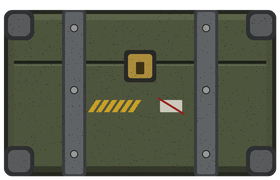
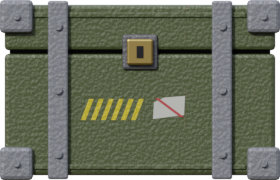
Added blender models and renderings of bomb crate and stash case

diff --git a/leapfrog-game/models/sprites/bomb_crate.py b/leapfrog-game/models/sprites/bomb_crate.py
@@ -1,0 +1,137 @@
+"""
+bomb_crate - the explosive crate: a nailed wooden crate with crossed braces
+and a yellow warning sign bolted to it, showing a blast.
+
+Bodies in data/landing_scene_state2.xml and deep_space_scene.xml: bombBody and
+magenticMineBody, 20 x 20. Front view, ortho rig, 20 px/unit, framed exactly to
+the body, so x and z -10 .. 10. It replaces a downloaded picture: nothing here
+comes from an image, the wood and paint are procedural. The texture is already
+listed in res.xml (images); a render replaces the file and keeps the entry.
+
+Run from leapfrog-game\\models\\sprites:
+    blender -b --factory-startup -P bomb_crate.py
+    blender -b --factory-startup -P bomb_crate.py -- --samples 16 --suffix _test
+"""
+
+import math
+import os
+import sys
+
+sys.path.insert(0, os.path.dirname(os.path.abspath(__file__)))
+
+import bmesh                      # noqa: E402
+import sprite_kit as sk           # noqa: E402
+
+
+def options(p):
+    p.add_argument("--suffix", default="", help="added to the texture name (e.g. _test: not registered)")
+    p.add_argument("--sign", type=float, default=6.5, help="the sign's half diagonal")
+
+
+args = sk.parse_args(options)
+kit = sk.Kit(args, rig="ortho", res="res.xml")
+
+S = 10.0            # half the crate's side
+RAIL = 2.9          # width of the frame's planks
+OPENING = S - RAIL  # half the opening inside the frame
+
+wood = kit.material("wood_crate")
+steel = kit.material("strap_steel")
+yellow = kit.material("sign_yellow")
+black = kit.material("sign_black")
+
+
+def plank(name, center, length, width, depth, angle=0.0, bevel_width=0.07):
+    """A plank of its own, grain along its length; angle turns it, seen from the front."""
+    return sk.box_object(name, center, (length, depth, width), wood,
+                         rotation=(0.0, math.radians(angle), 0.0), bevel_width=bevel_width)
+
+
+def nail(name, x, z, y, radius=0.17):
+    bm = bmesh.new()
+    sk.strut(bm, (x, y + 0.12, z), (x, y, z), radius, segments=12)
+    return sk.mesh_object(name, bm, steel)
+
+
+# ---------------------------------------------------------------------------
+# Boards behind everything, a dark inside showing through the gaps
+# ---------------------------------------------------------------------------
+sk.box_object("inside", (0, 1.6, 0), (2 * OPENING + 1, 0.4, 2 * OPENING + 1), kit.material("void"))
+
+BOARDS = 5
+pitch = 2 * OPENING / BOARDS
+for i in range(BOARDS):
+    x = -OPENING + pitch * (i + 0.5)
+    plank("board_%d" % i, (x, 1.0, 0), 2 * OPENING + 1.0, pitch - 0.07, 0.8, angle=90, bevel_width=0.04)
+
+# ---------------------------------------------------------------------------
+# Crossed braces, one lapped over the other, cut off by the frame in front
+# ---------------------------------------------------------------------------
+brace_length = 2 * OPENING * math.sqrt(2) - 0.2
+plank("brace_0", (0, 0.45, 0), brace_length, 2.4, 0.4, angle=45)
+plank("brace_1", (0, 0.05, 0), brace_length, 2.4, 0.4, angle=-45)
+
+# ---------------------------------------------------------------------------
+# The frame: rails across, stiles between them, a nail row at each joint
+# ---------------------------------------------------------------------------
+for i, sz in enumerate((-1, 1)):
+    plank("rail_%d" % i, (0, -0.2, sz * (S - RAIL / 2)), 2 * S, RAIL, 0.8)
+for i, sx in enumerate((-1, 1)):
+    plank("stile_%d" % i, (sx * (S - RAIL / 2), -0.2, 0), 2 * OPENING, RAIL, 0.8, angle=90)
+
+for i, sx in enumerate((-1, 1)):
+    for j, sz in enumerate((-1, 1)):
+        x = sx * (S - RAIL / 2)
+        z = sz * (OPENING - 1.1)
+        for k, dx in enumerate((-0.75, 0.75)):
+            nail("nail_%d_%d_%d" % (i, j, k), x + dx, z, -0.75)
+
+# Steel corners
+for i, (sx, sz) in enumerate(((-1, -1), (1, -1), (-1, 1), (1, 1))):
+    x = sx * (S - 1.15)
+    z = sz * (S - 1.15)
+    sk.box_object("corner_%d" % i, (x, -0.6, z), (2.3, 0.3, 2.3), steel, bevel_width=0.1)
+    for j, (dx, dz) in enumerate(((-0.65, -0.65), (0.65, -0.65), (-0.65, 0.65), (0.65, 0.65))):
+        nail("corner_nail_%d_%d" % (i, j), x + dx, z + dz, -0.85, radius=0.2)
+
+
+# ---------------------------------------------------------------------------
+# The warning sign: rounded diamonds on top of each other, and a blast
+# ---------------------------------------------------------------------------
+def diamond(half, corner, steps=6):
+    """A diamond with rounded corners; half = half diagonal before rounding."""
+    points = []
+    centre = half - corner * math.sqrt(2)
+    for i in range(4):
+        a0 = math.radians(90 * i - 45)
+        cx = centre * math.cos(math.radians(90 * i))
+        cz = centre * math.sin(math.radians(90 * i))
+        for s in range(steps + 1):
+            a = a0 + math.radians(90) * s / steps
+            points.append((cx + corner * math.cos(a), cz + corner * math.sin(a)))
+    return points
+
+
+def burst(radii, turn=0.0):
+    """A jagged star: radii are the distances of its points, in turn out and in."""
+    n = len(radii)
+    return [(r * math.cos(math.radians(turn + 360.0 * i / n)),
+             r * math.sin(math.radians(turn + 360.0 * i / n))) for i, r in enumerate(radii)]
+
+
+R = args.sign
+sk.prism("sign", diamond(R, 0.7), -0.72, 0.1, yellow)
+sk.prism("sign_ring", diamond(R - 0.45, 0.55), -0.74, 0.02, black)
+sk.prism("sign_face", diamond(R - 0.75, 0.45), -0.76, 0.02, yellow)
+
+sk.prism("blast", burst([4.1, 2.0, 3.3, 1.8, 4.3, 2.1, 3.0, 1.9, 4.0, 1.9, 3.4, 2.1,
+                         4.2, 1.8, 3.1, 2.0, 3.9, 1.9, 3.3, 2.0], turn=8.0), -0.78, 0.02, black)
+sk.prism("blast_core", burst([1.75, 0.95, 1.5, 0.9, 1.8, 1.0, 1.45, 0.9, 1.7, 1.0, 1.5, 0.95],
+                             turn=20.0), -0.80, 0.02, yellow)
+
+for i in range(4):
+    a = math.radians(90 * i)
+    nail("sign_bolt_%d" % i, (R - 0.72) * math.cos(a), (R - 0.72) * math.sin(a), -0.95, radius=0.26)
+
+if not args.no_render:
+    kit.render_ortho("bomb_crate" + args.suffix, (-S, -S, S, S))

diff --git a/leapfrog-game/models/sprites/themes/mining.py b/leapfrog-game/models/sprites/themes/mining.py
@@ -179,6 +179,22 @@ def make_material(role, models_dir):
         return _smoke("smoke")
     if role == "neon_dead":
         return _simple("neon_dead", base=(0.10, 0.07, 0.08), rough=0.25, metallic=0.0)
+    if role == "case_olive":
+        return _weathered_paint("case_olive", paint=(0.075, 0.095, 0.035), rust=0.22, streak_scale=0.15)
+    if role == "strap_steel":
+        return _weathered_paint("strap_steel", paint=(0.20, 0.205, 0.22), rust=0.2, streak_scale=0.2)
+    if role == "latch_brass":
+        return _simple("latch_brass", base=(0.55, 0.37, 0.11), rough=0.38, metallic=1.0)
+    if role == "sign_yellow":
+        return _weathered_paint("sign_yellow", paint=(0.72, 0.53, 0.02), rust=0.14, streak_scale=0.25)
+    if role == "sign_black":
+        return _weathered_paint("sign_black", paint=(0.012, 0.012, 0.013), rust=0.08, streak_scale=0.25)
+    if role == "label_paper":
+        return _simple("label_paper", base=(0.50, 0.49, 0.43), rough=0.8, metallic=0.0)
+    if role == "label_red":
+        return _simple("label_red", base=(0.42, 0.03, 0.03), rough=0.6, metallic=0.0)
+    if role == "wood_crate":
+        return _wood_planks("wood_crate", dark=(0.075, 0.042, 0.018), light=(0.34, 0.21, 0.10))
     raise KeyError("mining theme has no material role '%s'" % role)
 
 
@@ -508,6 +524,95 @@ def _smoke(name):
     """Thin grey smoke: a soft, partly transparent surface (Cycles reads the Alpha input)."""
     mat = _simple(name, base=(0.30, 0.30, 0.32), rough=1.0, metallic=0.0)
     _try_input(mat.node_tree.nodes.get("Principled BSDF"), "Alpha", 0.35)
+    return mat
+
+
+def _wood_planks(name, dark, light):
+    """
+    Sawn planks, grain along the object's local X. Each plank gets its own
+    grain and tone from its object's random number, so make every plank an
+    object of its own and turn it to lie where it should.
+    """
+    mat = bpy.data.materials.new(name)
+    mat.use_nodes = True
+    nt = mat.node_tree
+    n = nt.nodes
+    l = nt.links
+    n.clear()
+
+    out = n.new("ShaderNodeOutputMaterial")
+    bsdf = n.new("ShaderNodeBsdfPrincipled")
+    l.new(bsdf.outputs["BSDF"], out.inputs["Surface"])
+
+    coord = n.new("ShaderNodeTexCoord")
+    info = n.new("ShaderNodeObjectInfo")
+
+    # Shift the coordinates by the plank's random number
+    shift = n.new("ShaderNodeMath")
+    shift.operation = 'MULTIPLY'
+    shift.inputs[1].default_value = 97.0
+    l.new(info.outputs["Random"], shift.inputs[0])
+    shift_xyz = n.new("ShaderNodeCombineXYZ")
+    l.new(shift.outputs["Value"], shift_xyz.inputs["X"])
+    l.new(shift.outputs["Value"], shift_xyz.inputs["Y"])
+    l.new(shift.outputs["Value"], shift_xyz.inputs["Z"])
+    shifted = n.new("ShaderNodeVectorMath")
+    shifted.operation = 'ADD'
+    l.new(coord.outputs["Object"], shifted.inputs[0])
+    l.new(shift_xyz.outputs["Vector"], shifted.inputs[1])
+
+    # Growth rings: bands across the plank, drawn out along it
+    rings_map = n.new("ShaderNodeMapping")
+    rings_map.inputs["Scale"].default_value = (0.07, 1.0, 1.0)
+    l.new(shifted.outputs["Vector"], rings_map.inputs["Vector"])
+    rings = n.new("ShaderNodeTexWave")
+    rings.wave_type = 'BANDS'
+    rings.bands_direction = 'Z'
+    rings.inputs["Scale"].default_value = 0.55
+    rings.inputs["Distortion"].default_value = 7.0
+    rings.inputs["Detail"].default_value = 4.0
+    rings.inputs["Detail Scale"].default_value = 1.2
+    l.new(rings_map.outputs["Vector"], rings.inputs["Vector"])
+
+    # Fine fibres
+    fibre_map = n.new("ShaderNodeMapping")
+    fibre_map.inputs["Scale"].default_value = (0.04, 1.0, 1.0)
+    l.new(shifted.outputs["Vector"], fibre_map.inputs["Vector"])
+    fibre = n.new("ShaderNodeTexNoise")
+    fibre.inputs["Scale"].default_value = 14.0
+    fibre.inputs["Detail"].default_value = 6.0
+    l.new(fibre_map.outputs["Vector"], fibre.inputs["Vector"])
+
+    grain = n.new("ShaderNodeMix")
+    grain.data_type = 'FLOAT'
+    _socket(grain.inputs, "Factor_Float").default_value = 0.35
+    l.new(rings.outputs["Fac"], _socket(grain.inputs, "A_Float"))
+    l.new(fibre.outputs["Fac"], _socket(grain.inputs, "B_Float"))
+
+    # A lighter or darker plank
+    tone = n.new("ShaderNodeMath")
+    tone.operation = 'MULTIPLY'
+    tone.inputs[1].default_value = 0.3
+    l.new(info.outputs["Random"], tone.inputs[0])
+    toned = n.new("ShaderNodeMath")
+    toned.operation = 'ADD'
+    l.new(_socket(grain.outputs, "Result_Float"), toned.inputs[0])
+    l.new(tone.outputs["Value"], toned.inputs[1])
+
+    ramp = n.new("ShaderNodeValToRGB")
+    ramp.color_ramp.elements[0].position = 0.25
+    ramp.color_ramp.elements[0].color = (dark[0], dark[1], dark[2], 1.0)
+    ramp.color_ramp.elements[1].position = 0.85
+    ramp.color_ramp.elements[1].color = (light[0], light[1], light[2], 1.0)
+    l.new(toned.outputs["Value"], ramp.inputs["Fac"])
+    l.new(ramp.outputs["Color"], bsdf.inputs["Base Color"])
+
+    bsdf.inputs["Roughness"].default_value = 0.72
+    bump = n.new("ShaderNodeBump")
+    bump.inputs["Strength"].default_value = 0.35
+    l.new(_socket(grain.outputs, "Result_Float"), bump.inputs["Height"])
+    l.new(bump.outputs["Normal"], bsdf.inputs["Normal"])
+
     return mat
 
 

diff --git a/leapfrog-game/models/sprites/stash_case.py b/leapfrog-game/models/sprites/stash_case.py
@@ -1,0 +1,105 @@
+"""
+stash_case - the raiders' stash case in mission 1: a heavy olive transport
+case with steel straps and corners, a brass latch and hazard stripes.
+
+Body in data/stash_case.xml: stashCaseBody, 14 x 9. Front view, ortho rig, 20
+px/unit, framed exactly to the body, so x -7 .. 7 and z -4.5 .. 4.5. The
+texture is already listed in res.xml (images/space); a render replaces the 2D
+placeholder and keeps the entry.
+
+Run from leapfrog-game\\models\\sprites:
+    blender -b --factory-startup -P stash_case.py
+    blender -b --factory-startup -P stash_case.py -- --samples 16 --suffix _test
+"""
+
+import math
+import os
+import sys
+
+sys.path.insert(0, os.path.dirname(os.path.abspath(__file__)))
+
+import bmesh                      # noqa: E402
+import sprite_kit as sk           # noqa: E402
+
+
+def options(p):
+    p.add_argument("--suffix", default="", help="added to the texture name (e.g. _test: not registered)")
+    p.add_argument("--strap-x", type=float, default=4.1, help="the straps' distance from the centre")
+
+
+args = sk.parse_args(options)
+if not args.folder:
+    args.folder = "space"
+kit = sk.Kit(args, rig="ortho", res="res.xml")
+
+W = 14.0
+H = 9.0
+SEAM_Z = 1.9        # between lid and base
+
+olive = kit.material("case_olive")
+steel = kit.material("strap_steel")
+dark = kit.material("frame_main")
+brass = kit.material("latch_brass")
+yellow = kit.material("sign_yellow")
+black = kit.material("sign_black")
+
+
+def rivet(name, x, z, y=-0.55, radius=0.2):
+    bm = bmesh.new()
+    sk.strut(bm, (x, y + 0.2, z), (x, y, z), radius, segments=16)
+    return sk.mesh_object(name, bm, steel)
+
+
+# ---------------------------------------------------------------------------
+# The shell: lid and base, a dark gap between them, ribs along both edges
+# ---------------------------------------------------------------------------
+sk.box_object("gap", (0, 1.5, SEAM_Z), (W - 1.0, 2.0, 0.5), kit.material("void"))
+
+base_h = SEAM_Z - 0.1 + (H / 2 - 0.25)
+base_z = -(H / 2 - 0.25) + base_h / 2
+sk.box_object("base", (0, 1.5, base_z), (W - 0.5, 3.0, base_h), olive, bevel_width=0.18)
+
+lid_h = (H / 2 - 0.25) - SEAM_Z - 0.1
+lid_z = SEAM_Z + 0.1 + lid_h / 2
+sk.box_object("lid", (0, 1.5, lid_z), (W - 0.5, 3.0, lid_h), olive, bevel_width=0.18)
+
+for i, z in enumerate((3.75, -3.85)):
+    sk.box_object("rib_%d" % i, (0, -0.02, z), (W - 3.4, 0.14, 0.26), olive, bevel_width=0.05)
+
+# ---------------------------------------------------------------------------
+# Steel: corners and straps
+# ---------------------------------------------------------------------------
+for i, (sx, sz) in enumerate(((-1, -1), (1, -1), (-1, 1), (1, 1))):
+    x = sx * (W / 2 - 0.82)
+    z = sz * (H / 2 - 0.82)
+    sk.box_object("corner_%d" % i, (x, 0.2, z), (1.64, 1.2, 1.64), steel, bevel_width=0.2)
+    rivet("corner_rivet_%d" % i, x, z, y=-0.55, radius=0.17)
+
+for i, sx in enumerate((-1, 1)):
+    x = sx * args.strap_x
+    sk.box_object("strap_%d" % i, (x, 0.0, 0), (1.0, 0.7, H - 0.1), steel, bevel_width=0.1)
+    for j, z in enumerate((-3.2, 0.0, 3.2)):
+        rivet("strap_rivet_%d_%d" % (i, j), x, z, y=-0.5)
+
+# ---------------------------------------------------------------------------
+# The latch across the seam, with its keyhole
+# ---------------------------------------------------------------------------
+sk.box_object("latch_back", (0, -0.05, SEAM_Z), (1.75, 0.3, 1.75), dark, bevel_width=0.12)
+sk.box_object("latch", (0, -0.3, SEAM_Z), (1.3, 0.3, 1.3), brass, bevel_width=0.1)
+sk.box_object("keyhole", (0, -0.46, SEAM_Z), (0.34, 0.06, 0.6), kit.material("void"))
+
+# ---------------------------------------------------------------------------
+# Markings: hazard stripes and a torn label
+# ---------------------------------------------------------------------------
+for i in range(6):
+    x = -2.75 + i * 0.5
+    sk.prism("hazard_%d" % i,
+             [(x - 0.2, -1.5), (x + 0.03, -1.5), (x + 0.43, -0.45), (x + 0.2, -0.45)], -0.01, 0.02, yellow)
+
+sk.prism("label", [(0.65, -1.45), (2.2, -1.25), (2.25, -0.3), (1.2, -0.38), (0.7, -0.62)],
+         -0.01, 0.02, kit.material("label_paper"))
+sk.prism("label_slash", [(0.75, -0.42), (0.95, -0.42), (2.2, -1.35), (2.0, -1.35)],
+         -0.03, 0.02, kit.material("label_red"))
+
+if not args.no_render:
+    kit.render_ortho("stash_case" + args.suffix, (-W / 2, -H / 2, W / 2, H / 2))

diff --git a/leapfrog-game/models/sprites/sprite_kit.py b/leapfrog-game/models/sprites/sprite_kit.py
@@ -263,6 +263,23 @@ def mesh_object(name, bm, material=None, smooth_quads=False):
     return ob
 
 
+def prism(name, points_xz, y_front, depth, material=None):
+    """A flat plate cut to an outline, seen from the front: points_xz is the
+    outline (it may be concave), y_front its front face (towards the camera,
+    at -Y) and depth its thickness, going back towards +Y."""
+    bm = bmesh.new()
+    front = [bm.verts.new((x, y_front, z)) for x, z in points_xz]
+    back = [bm.verts.new((x, y_front + depth, z)) for x, z in points_xz]
+    bm.faces.new(front)
+    bm.faces.new(list(reversed(back)))
+    n = len(front)
+    for i in range(n):
+        j = (i + 1) % n
+        bm.faces.new((front[i], back[i], back[j], front[j]))
+    bmesh.ops.recalc_face_normals(bm, faces=bm.faces)
+    return mesh_object(name, bm, material)
+
+
 def box_object(name, center, size, material=None, rotation=(0.0, 0.0, 0.0), bevel_width=0.0):
     """One box as its own object (handy for parts that are rotated or tilted)."""
     bm = bmesh.new()
